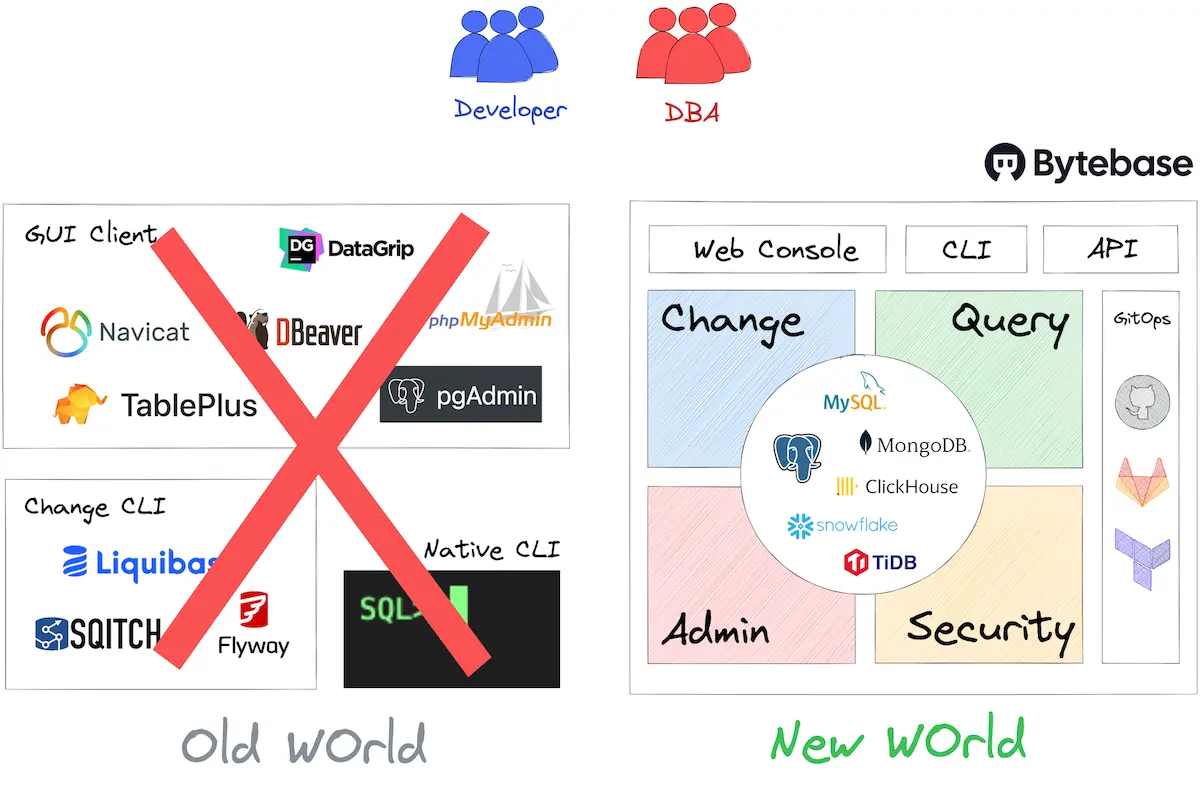
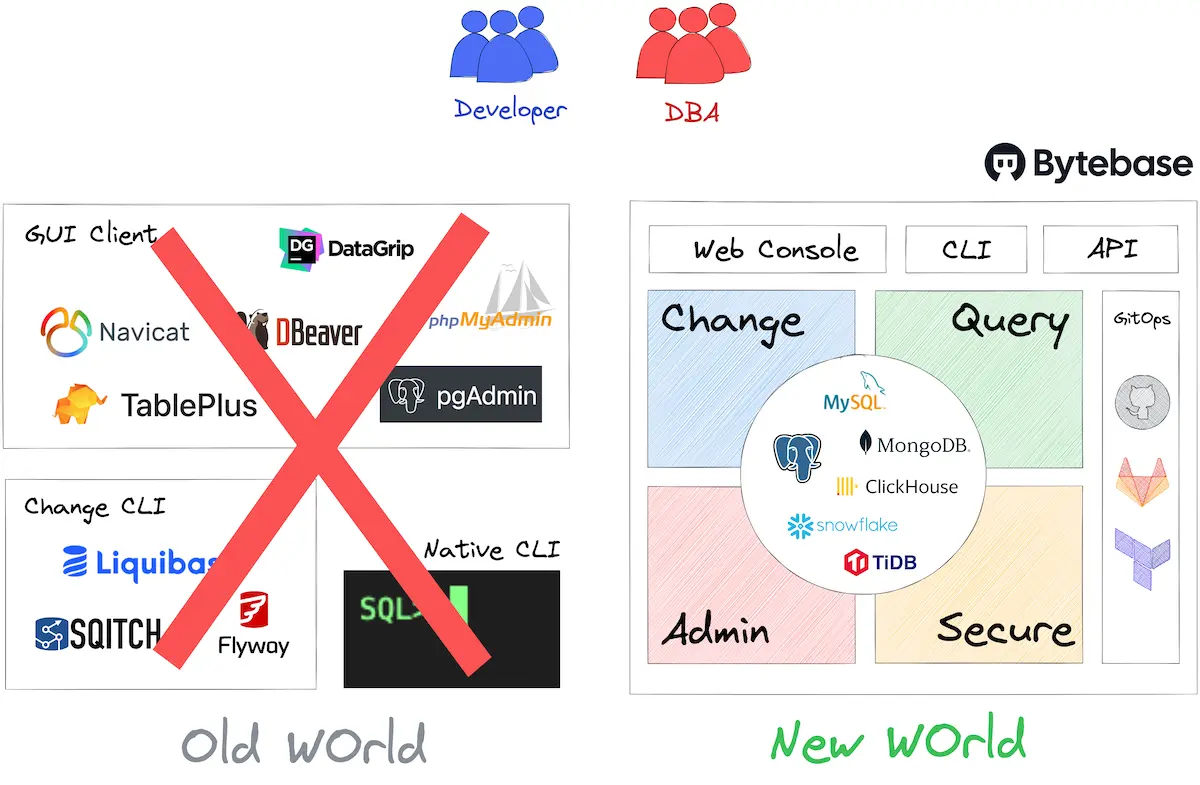
docs: security -> secure (#4000)
Former-commit-id: 30676186a3c92f26f74df96697c674e3d8ad2ec0

Changed region(s): [[0.74, 0.7643, 0.8942, 0.8255]]

diff --git a/README.md b/README.md
@@ -95,7 +95,7 @@
 <br />
 
 <p align="center">🔒</p>
-<h1 align="center">Security</h1>
+<h1 align="center">Secure</h1>
 <p align="center">
   Want to avoid data leakage, change outage and detect malicious behavior but don't know how?
 </p>
